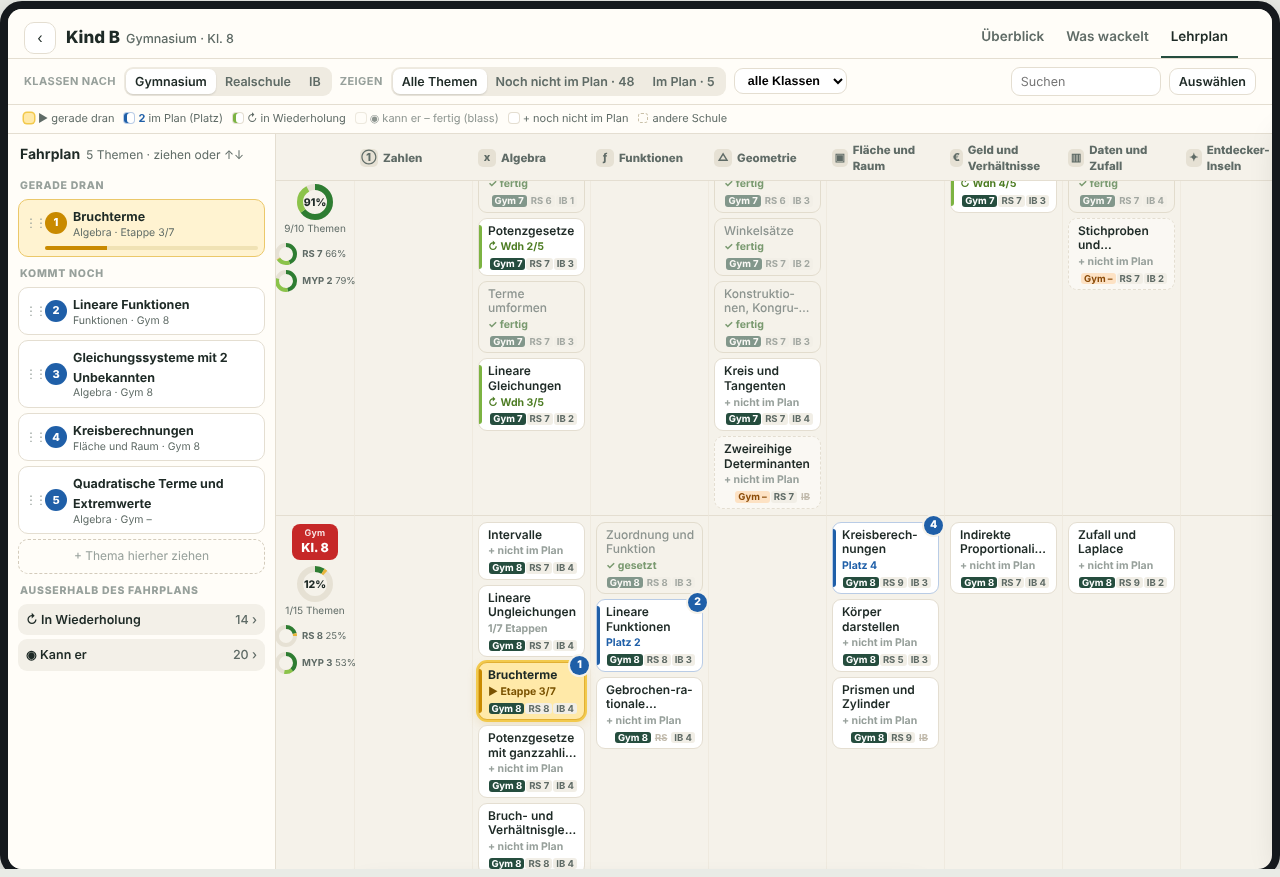
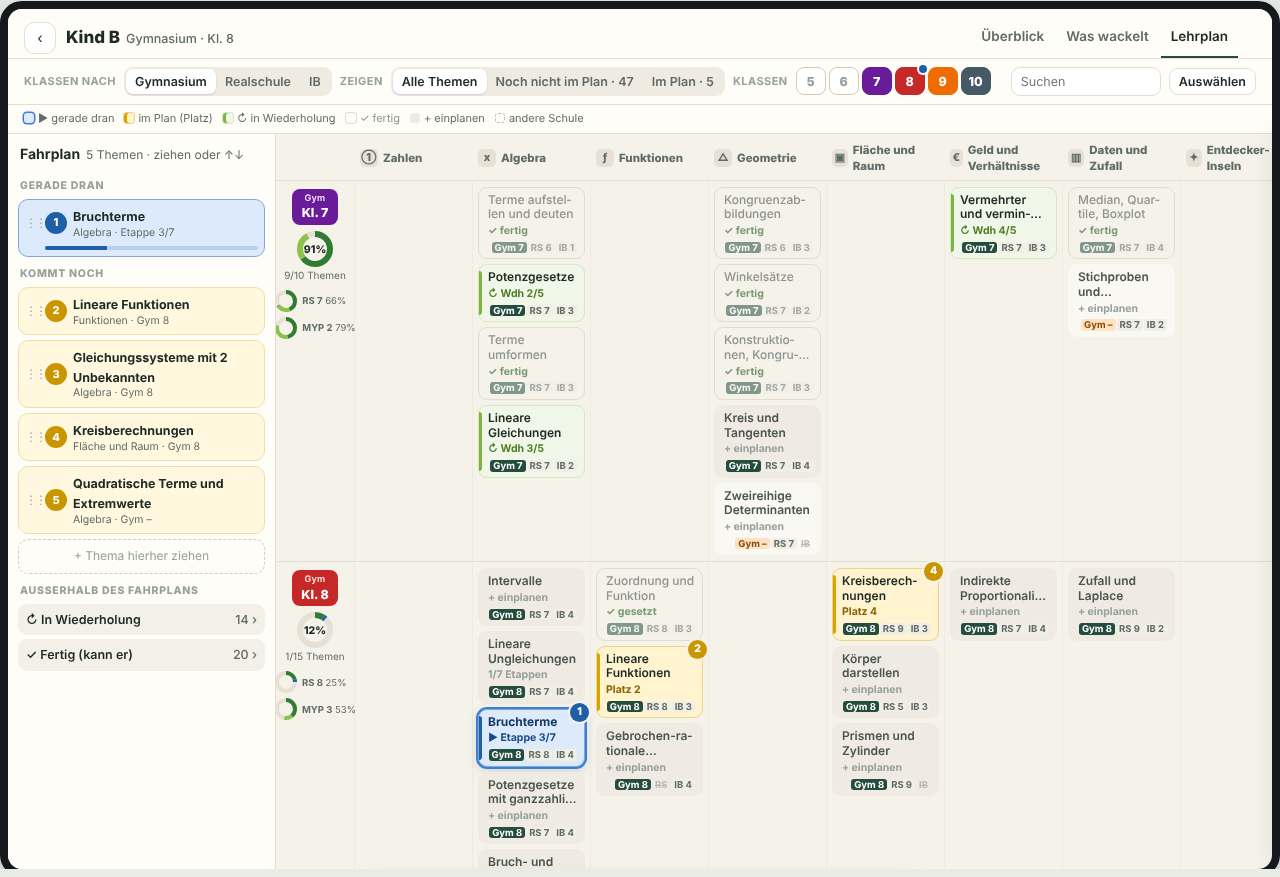
Unser Lehrplan: gerade dran blau, im Plan hellgelb, einplanen sandfarben
Claude-Session: https://claude.ai/code/session_01RWRKSDMD2R59mEauHDUNpi

diff --git a/inhalte/pruefung/lehrer/werkstatt/entwurf/unser-lehrplan.html b/inhalte/pruefung/lehrer/werkstatt/entwurf/unser-lehrplan.html
@@ -35,8 +35,8 @@ font-family:ui-sans-serif,system-ui,-apple-system,"Segoe UI",Roboto,sans-serif}
 .fp .nr{width:22px;height:22px;border-radius:50%;background:var(--blau);color:#fff;font-size:11px;font-weight:800;display:grid;place-items:center}
 .fp .ti{font-weight:650;font-size:12.5px;line-height:1.2}.fp .me{font-size:10.5px;color:var(--leise)}
 .fp .pf{display:none;gap:2px}.fp:hover .pf{display:flex}.pf button{border:1px solid var(--linie);background:#fff;border-radius:6px;width:20px;height:20px;font-size:11px;line-height:1;padding:0}
-.fp.dran{background:var(--dranbg);border-color:#EBC86A}.fp.dran .nr{background:var(--dran)}
-.fp .bar{grid-column:2/5;height:4px;border-radius:2px;background:#F0E2B4;overflow:hidden}.fp .bar i{display:block;height:100%;background:var(--dran)}
+.fp{background:#FFF8DE;border-color:#EFDFA6}.fp .nr{background:#C99600}.fp.dran{background:#DCEAFB;border-color:#7FA8DD}.fp.dran .nr{background:#1F5FA8}
+.fp .bar{grid-column:2/5;height:4px;border-radius:2px;background:#B9D0EE;overflow:hidden}.fp .bar i{display:block;height:100%;background:#1F5FA8}
 .fp.warn{border-color:#E7B4A8}.fp .w{grid-column:2/5;font-size:10.5px;color:var(--rot)}
 .fp.drop-vor::before{content:"";position:absolute;left:4px;right:4px;top:-4px;height:3px;border-radius:2px;background:var(--blau)}
 .dz{border:1.5px dashed var(--linie2);border-radius:10px;padding:8px;text-align:center;color:var(--muted);font-size:12px}
@@ -68,9 +68,9 @@ font-family:ui-sans-serif,system-ui,-apple-system,"Segoe UI",Roboto,sans-serif}
 .ch .pl.plus{background:#fff;color:var(--muted);border:1.5px dashed var(--linie2);box-shadow:none;opacity:0;transition:opacity .12s}.ch:hover .pl.plus{opacity:1}
 .ch.kann{background:transparent;border-color:#E2DCCD;box-shadow:none;--sb:transparent;--sc:#7A9A70}.ch.kann .t{color:#8C948F;font-weight:500}.ch.kann .sch{opacity:.55}.ch.kann:hover{background:#fff}
 .ch.wdh{background:var(--wdhbg);border-color:#D5E8C2;--sb:#7CB342;--sc:#4E7D24}
-.ch.dran{background:#FFE9A8;border-color:#E2B033;--sb:#C98A00;--sc:#7A5200;box-shadow:0 0 0 2px #F2C94C,0 4px 12px #C98A0033}.ch.dran .t{font-weight:750}
-.ch.offen{background:#fff;border-color:#B9CCE6;--sb:var(--blau);--sc:var(--blau)}
-.ch.raus{background:#fff;--sc:var(--muted)}
+.ch.dran{background:#DCEAFB;border-color:#7FA8DD;--sb:#1F5FA8;--sc:#174A86;box-shadow:0 0 0 2px #3F7FD0,0 4px 12px #1F5FA833}.ch.dran .t{font-weight:750;color:#123B6B}.ch.dran .pl{background:#1F5FA8}
+.ch.offen{background:#FFF4CF;border-color:#EBD38A;--sb:#D9A400;--sc:#8A6200}.ch.offen .pl{background:#C99600}
+.ch.raus{background:#EFEBE2;border-color:transparent;--sc:var(--muted)}.ch.raus .t{color:#4A5550}.ch.raus:hover{background:#fff;border-color:var(--linie)}
 .ch.fremd{border-style:dashed;background:#FAF8F3}.ch.aufg{opacity:.38;border-style:dotted}
 .ch.sel{outline:2.5px solid var(--text);outline-offset:1px}.ch.hl{box-shadow:0 0 0 3px #1F5FA855}
 .ch.blass{opacity:.28}
@@ -146,7 +146,7 @@ function passt(x){if(zeigen==='fehlt')return imPlan(x.id)<0&&!stufe[x.id];if(zei
 function fehlt(x){return !x.s&&imPlan(x.id)<0&&!stufe[x.id]&&kls.has(kl(x))}
 const esc=s=>String(s??'').replace(/[&<>"]/g,c=>({'&':'&amp;','<':'&lt;','>':'&gt;','"':'&quot;'}[c]));
 function schB(x,cls){const p=(s,v)=>{const ref=s===sa;const lab=breite<1100&&cls!=='sch d'?{gym:'G',rs:'R',ib:'I'}[s]:SA[s]+' ';return `<b class="${ref&&v?'r':''}${!v&&ref?'rx':''}${!v&&!ref?'x':''}">${lab}${v?v:(ref?'–':'')}</b>`};return `<span class="${cls||'sch'}">${p('gym',x.k.gym)}${p('rs',x.k.rs)}${p('ib',x.ib)}</span>`}
-function stText(x){const s=st(x),y=stufe[x.id]||{};if(s==='dran')return`▶ Etappe ${dranEt}/${x.e.length}`;if(s==='offen')return`Platz ${imPlan(x.id)+1}`;if(s==='kann')return y.gesetzt?'✓ gesetzt':'✓ fertig';if(s==='wdh')return`↻ Wdh ${y.n}/5`;if(begonnen[x.id])return`${begonnen[x.id]-1}/${x.e.length} Etappen`;return'+ nicht im Plan'}
+function stText(x){const s=st(x),y=stufe[x.id]||{};if(s==='dran')return`▶ Etappe ${dranEt}/${x.e.length}`;if(s==='offen')return`Platz ${imPlan(x.id)+1}`;if(s==='kann')return y.gesetzt?'✓ gesetzt':'✓ fertig';if(s==='wdh')return`↻ Wdh ${y.n}/5`;if(begonnen[x.id])return`${begonnen[x.id]-1}/${x.e.length} Etappen`;return'+ einplanen'}
 function chip(x){const s=st(x),p=imPlan(x.id);const fremd=!(sa==='ib'?x.ib:x.k[sa]);
  const cls=['ch',s,fremd?'fremd':'',x.s?'aufg':'',sel===x.id?'sel':'',gew.has(x.id)?'gew':'',!passt(x)?'blass':'',q&&!(x.t+' '+x.u).toLowerCase().includes(q)?'blass':''].join(' ');
  return `<button class="${cls}" data-id="${x.id}" draggable="${breite>=760}">${p>=0?`<span class="pl">${p+1}</span>`:(x.s?'':'<span class="pl plus">+</span>')}<span class="cb">✓</span><span class="t">${esc(x.t)}</span><span class="m"><span class="st">${x.s?'aufgelöst':stText(x)}</span>${schB(x)}</span></button>`}
@@ -156,7 +156,7 @@ function ringSvg(k,schule,gr){const l=themen(k,schule);if(!l.length)return '';co
  const r=gr?15:9,sw=gr?6:4,c=gr?20:12,U=2*Math.PI*r;let a=0;const seg=(v,f)=>{if(!v)return'';const len=v/E*U;const o=`<circle r="${r}" cx="${c}" cy="${c}" fill="none" stroke="${f}" stroke-width="${sw}" stroke-dasharray="${len} ${U-len}" stroke-dashoffset="${-a}" transform="rotate(-90 ${c} ${c})"/>`;a+=len;return o};
  const pz=Math.round((g+w+d)/E*100),tf=l.filter(x=>{const s=st(x);return s==='kann'||s==='wdh'}).length;
  const lab=schule==='ib'?'MYP '+(k-5):SA[schule]+' '+k;
- return `<span class="rg ${gr?'gr':''}" title="${lab}: ${g+w+d} von ${E} Etappen gelandet · ${tf}/${l.length} Themen fertig"><svg width="${2*c}" height="${2*c}"><circle r="${r}" cx="${c}" cy="${c}" fill="none" stroke="#E6E1D4" stroke-width="${sw}"/>${seg(g,'#2E7D32')}${seg(w,'#8BC34A')}${seg(d,'#E9B53A')}${gr?`<text x="${c}" y="${c+4}" text-anchor="middle" font-size="10.5" font-weight="800" fill="#1E2A26">${pz}%</text>`:''}</svg>${gr?`<span class="kn">${tf}/${l.length} Themen</span>`:`<span class="rl"><b>${lab}</b> ${pz}%</span>`}</span>`}
+ return `<span class="rg ${gr?'gr':''}" title="${lab}: ${g+w+d} von ${E} Etappen gelandet · ${tf}/${l.length} Themen fertig"><svg width="${2*c}" height="${2*c}"><circle r="${r}" cx="${c}" cy="${c}" fill="none" stroke="#E6E1D4" stroke-width="${sw}"/>${seg(g,'#2E7D32')}${seg(w,'#8BC34A')}${seg(d,'#1F5FA8')}${gr?`<text x="${c}" y="${c+4}" text-anchor="middle" font-size="10.5" font-weight="800" fill="#1E2A26">${pz}%</text>`:''}</svg>${gr?`<span class="kn">${tf}/${l.length} Themen</span>`:`<span class="rl"><b>${lab}</b> ${pz}%</span>`}</span>`}
 function ring(k){const andere=['gym','rs','ib'].filter(s=>s!==sa);return ringSvg(k,sa,true)+`<span class="rk2">${andere.map(s=>ringSvg(k,s,false)).join('')}</span>`}
 function kopf(){if(breite<760)return `<div class="kopf" style="flex-wrap:wrap;padding:8px 12px 0"><span class="zur">‹</span><span class="name">Kind B<small>Gym · Kl. 8</small></span><nav class="reiter" style="width:100%;margin:0;justify-content:space-around"><a>Überblick</a><a>Was wackelt</a><a class="an">Lehrplan</a></nav></div>`;return `<div class="kopf"><span class="zur">‹</span><span class="name">Kind B<small>Gymnasium · Kl. 8</small></span><nav class="reiter"><a>Überblick</a><a>Was wackelt</a><a class="an">Lehrplan</a></nav><span style="width:8px"></span></div>`}
 function leiste(){const kompakt=breite<760;const nf=D.filter(fehlt).length;return `<div class="leiste">
@@ -166,7 +166,7 @@ function leiste(){const kompakt=breite<760;const nf=D.filter(fehlt).length;retur
  <div class="rechts">${breite>=760&&breite<1100?`<button class="ik ${railAuf?'an':''}" data-a="rail">Fahrplan · ${plan.length}</button>`:''}
  ${kompakt?'':'<input class="such" placeholder="Suchen" value="'+esc(q)+'" data-a="such">'}
  <button class="ik ${waehlen?'an':''}" data-a="waehlen">${waehlen?'Fertig':'Auswählen'}</button></div></div>
- <div class="legende"${breite<760?' style="font-size:10.5px;gap:8px;padding:5px 12px"':''}><span><i style="background:#FFE9A8;box-shadow:0 0 0 1.5px #F2C94C"></i>▶ gerade dran</span><span><i style="background:#fff;box-shadow:inset 3px 0 var(--blau),0 0 0 1px #B9CCE6"></i><b style="color:var(--blau)">2</b> im Plan (Platz)</span><span><i style="background:var(--wdhbg);box-shadow:inset 3px 0 #7CB342,0 0 0 1px #D5E8C2"></i>↻ in Wiederholung</span><span><i style="background:transparent;box-shadow:0 0 0 1px #E2DCCD;opacity:.6"></i><span style="color:#8C948F">◉ kann er – fertig (blass)</span></span><span><i style="background:#fff;box-shadow:0 0 0 1px #E4DED1"></i>+ noch nicht im Plan</span><span><i style="border:1.5px dashed #C9C0A8"></i>andere Schule</span></div>`}
+ <div class="legende"${breite<760?' style="font-size:10.5px;gap:8px;padding:5px 12px"':''}><span><i style="background:#DCEAFB;box-shadow:0 0 0 1.5px #3F7FD0"></i>▶ gerade dran</span><span><i style="background:#FFF4CF;box-shadow:inset 3px 0 #D9A400,0 0 0 1px #EBD38A"></i>im Plan (Platz)</span><span><i style="background:var(--wdhbg);box-shadow:inset 3px 0 #7CB342,0 0 0 1px #D5E8C2"></i>↻ in Wiederholung</span><span><i style="background:transparent;box-shadow:0 0 0 1px #E2DCCD"></i><span style="color:#8C948F">✓ fertig</span></span><span><i style="background:#EFEBE2"></i>+ einplanen</span><span><i style="border:1.5px dashed #C9C0A8"></i>andere Schule</span></div>`}
 function rail(){const fz=plan.map((id,i)=>{const x=BY[id];const vor=(VOR[id]||[]).filter(e=>e.art==='h'&&imPlan(e.id)>i);
   return `<div class="fp ${i===0?'dran':''} ${vor.length?'warn':''}" draggable="true" data-fp="${id}"><span class="gr">⋮⋮</span><span class="nr">${i+1}</span><span><span class="ti">${esc(x.t)}</span><span class="me" style="display:block">${esc(x.g)} · ${i===0?`Etappe ${dranEt}/${x.e.length}`:SA[sa]+' '+(x.k[sa]||'–')}</span></span><span class="pf"${breite<1100?' style="display:flex"':''}><button data-auf="${id}" title="hoch">↑</button><button data-ab="${id}" title="runter">↓</button></span>${i===0?`<span class="bar"><i style="width:${Math.round((dranEt-1)/x.e.length*100)}%"></i></span>`:''}${vor.length?`<span class="w">braucht ${esc(BY[vor[0].id].t)} – kommt erst auf Platz ${imPlan(vor[0].id)+1}</span>`:''}</div>`}).join('');
  const nw=D.filter(x=>stufe[x.id]&&stufe[x.id].s==='wdh'&&imPlan(x.id)<0).length,nk=D.filter(x=>stufe[x.id]&&stufe[x.id].s==='kann'&&imPlan(x.id)<0).length;

diff --git a/inhalte/pruefung/lehrer/werkstatt/umsetzung.md b/inhalte/pruefung/lehrer/werkstatt/umsetzung.md
@@ -30,13 +30,14 @@ Nur Vorgabe, kein App-Code. Ziel (Sebastian): eigenen Lehrplan machen – sehen,
 - Zeile 1: Titel (höchstens 2 Zeilen, Silbentrennung, dann „…“).
 - Zeile 2 links: Stand – `◉ kann er` / `◉ gesetzt` / `↻ Wdh 2/5` / `▶ Etappe 3/7` / `Platz 4` / `2/7 begonnen` / leer.
 - Zeile 2 rechts: **Schul-Kennzeichen** `Gym 8 · RS 7 · IB 4` (gewählte Schulart dunkel, fehlende durchgestrichen, „Gym –“ orange). Tablet/Handy kurz: `G8 R7 I4`.
-- **Farbe nach Wichtigkeit** (Sebastian 22.11.: Fertiges braucht man nicht mehr, darum zurücknehmen):
-  - **▶ gerade dran:** kräftig gelb, gelber Ring, Titel fett – das Auffälligste auf der Seite.
-  - **im Plan (kommt noch):** weiß, blauer Strich links, blaue Platznummer, Text „Platz 4“.
-  - **↻ in Wiederholung:** hellgrün hinterlegt (#F0F7E8), hellgrüner Strich links, „↻ Wdh 2/5“ grün.
-  - **✓ fertig (kann er, auch gesetzt):** **durchsichtig** – kein Hintergrund, heller Rand, Titel grau, Kennzeichen blass, „✓ fertig“ / „✓ gesetzt“; beim Darüberfahren wieder weiß (bleibt antippbar).
-  - **+ nicht im Plan:** weiß, neutral, „+ nicht im Plan“ bzw. „1/7 Etappen“, wenn schon begonnen.
-  - **andere Schule:** gestrichelter Rand (zusätzlich zur Stufe). Aufgelöst: nicht in der Matrix.
+- **Farben (Sebastian 22.11.: „blau, wo er gerade dran ist, hellgelb, was schon in seinem Plan liegt“):**
+  - **▶ gerade dran:** **blau** – Fläche #DCEAFB, blauer Ring #3F7FD0, Titel fett dunkelblau, Platznummer blau. Das Auffälligste auf der Seite. Im Fahrplan derselbe blaue Eintrag mit blauem Fortschrittsbalken.
+  - **im Plan (kommt noch):** **hellgelb** – Fläche #FFF4CF, gelber Strich links, „Platz 4“, Platznummer goldgelb (#C99600). Im Fahrplan alle „kommt noch“-Einträge hellgelb.
+  - **↻ in Wiederholung:** hellgrün (#F0F7E8), hellgrüner Strich, „↻ Wdh 2/5“.
+  - **✓ fertig (kann er, auch gesetzt):** durchsichtig, Titel grau, „✓ fertig“ / „✓ gesetzt“; beim Darüberfahren weiß.
+  - **+ einplanen (nicht im Plan):** ruhig sandfarben (#EFEBE2) ohne Rahmen, Text „+ einplanen“ bzw. „1/7 Etappen“; beim Darüberfahren weiß.
+  - **andere Schule:** zusätzlich gestrichelter Rand.
+  - Ring je Klasse: grün kann er, hellgrün Wiederholung, blau angefangene Etappen.
   - Ganz fertige Klassen zusätzlich eingeklappt (siehe 2).
 - **Blaue Zahl** oben rechts = Platz im Fahrplan; bei Themen außerhalb erscheint beim Darüberfahren ein „+“.
 - Rechner: Karte ziehbar (in den Fahrplan).
